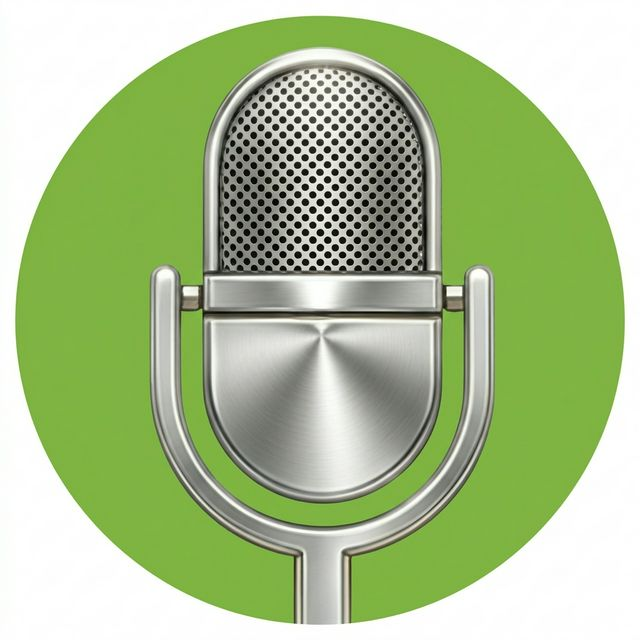
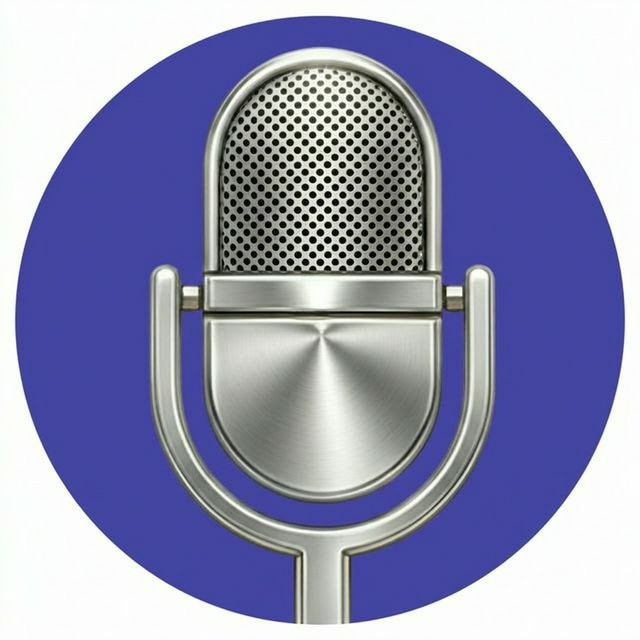
fix: 홈 화면 마이크 아이콘 경로를 icon_mic.png로 수정 및 에셋 동기화

diff --git a/lib/widgets/simplified_input_widget.dart b/lib/widgets/simplified_input_widget.dart
@@ -649,7 +649,7 @@ class MeshMicIcon extends StatelessWidget {
       ),
       child: Center(
         child: Image.asset(
-          'assets/icon_mic_green.png',
+          'assets/icon_mic.png',
           width: size * 0.9,
           height: size * 0.9,
           fit: BoxFit.contain,
